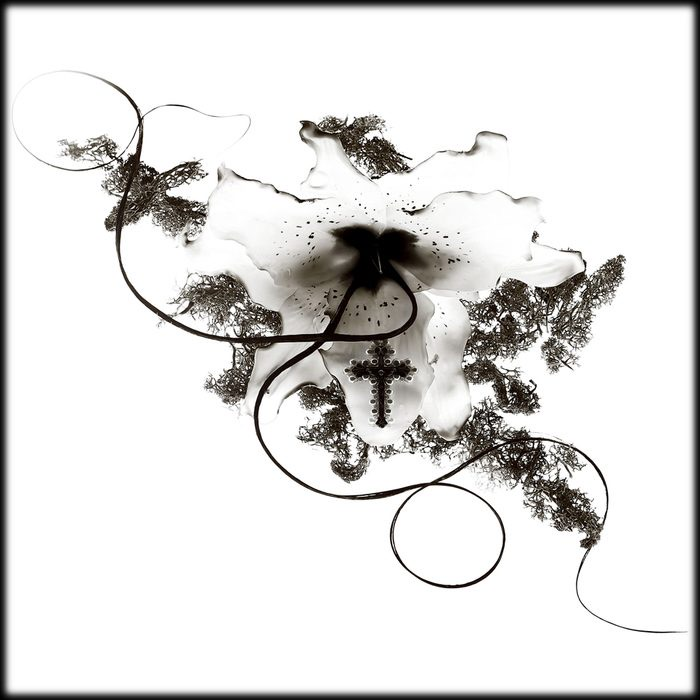
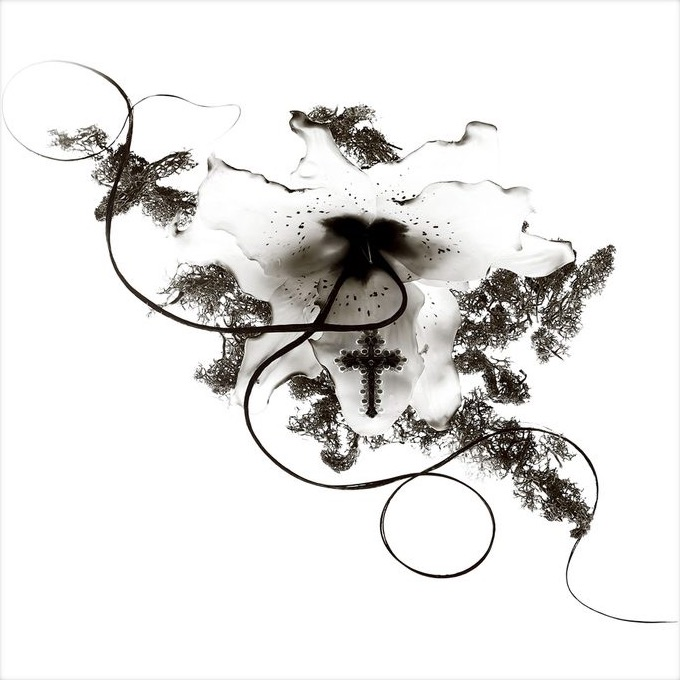
Intro: trim the black frame off the orchid image

diff --git a/js/data.js b/js/data.js
@@ -1151,8 +1151,8 @@ const INTRO = [
   },
   {
     "src": "assets/intro/22.jpg",
-    "w": 700,
-    "h": 700
+    "w": 680,
+    "h": 680
   },
   {
     "src": "assets/intro/24.jpg",
